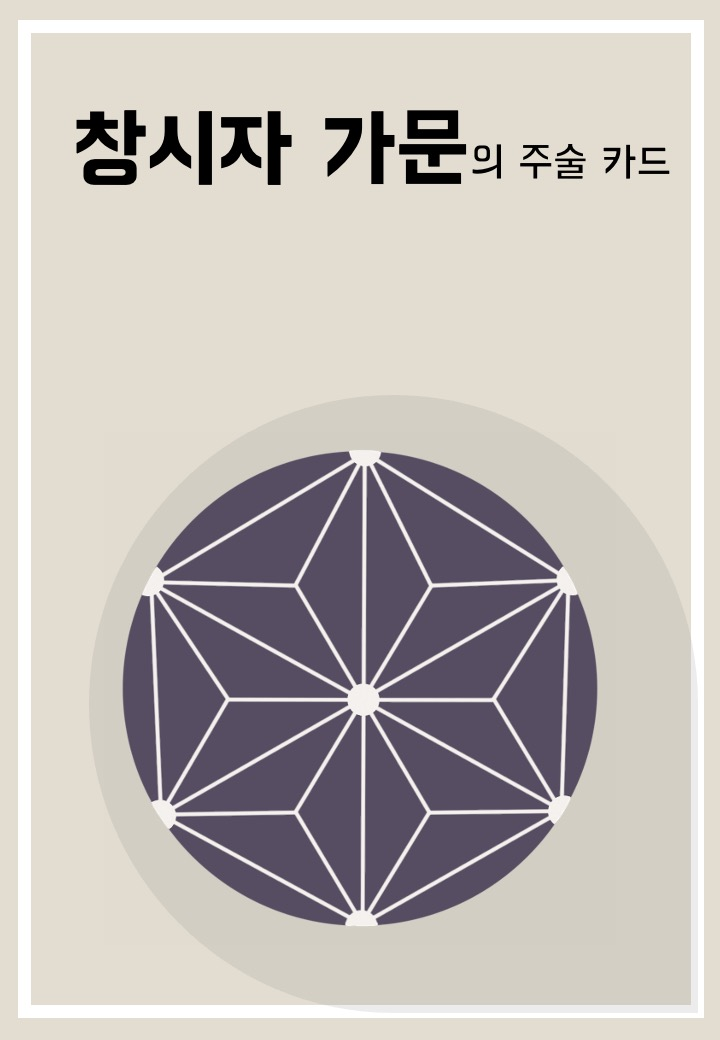
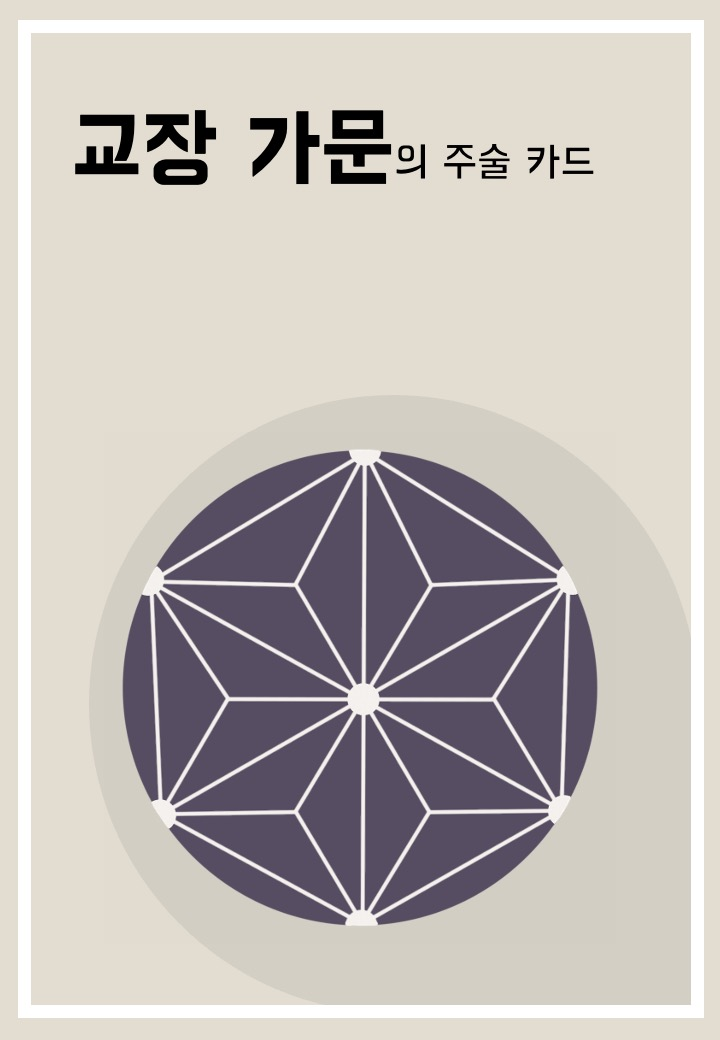
주술 조건 추가

diff --git a/character/character7.html b/character/character7.html
@@ -142,7 +142,7 @@
             <p>「최초의 주술사가 탄생하였다.<br>그는 주술사가 되려면 요괴를...」</p>
             </blockquote>
             <p>나머지 글귀는 찢어져 알아볼 수 없었다.</p>
-            <p>책의 다른 부분에는 가문의 주술인 <strong>생명술</strong>(나의 생명력과 타인의 생명력을 바꾸는 주술)을 포함한 <STRONG>그림자술</STRONG>(눈에 보이는 것을 그림자 속에 없애는 주술)과 <STRONG>복원술</STRONG>(사물을 기존의 상태로 복원하는 주술)에 대해 적혀 있었다.</p>
+            <p>책의 다른 부분에는 가문의 주술인 <strong>생명술</strong>(나의 생명력과 타인의 생명력을 바꾸는 주술)을 포함한 <STRONG>그림자술</STRONG>(눈에 보이는 것을 그림자 속에 숨기는 주술)과 <STRONG>복원술</STRONG>(사물을 기존의 상태로 복원하는 주술)에 대해 적혀 있었다.</p>
             <p>한참 책장을 넘기던 중, 누군가 나를 불렀다.</p>
             <p>"그림자 가문의 아이야. 돌아왔구나."</p>
             <p>고개를 들자 한 여인이 서 있었다.<br>그녀는 <strong>주술 학교의 교장, 아리아</strong>라고 했다.</p>

diff --git a/characterAction/character6.html b/characterAction/character6.html
@@ -65,7 +65,9 @@
         <p><strong>주술</strong> : 변신술</p>
         <p><strong>내용</strong> : 신체의 모습을 변형하는 주술</p>
         <p><strong>비용</strong> : 주술 1번당 체력 큐브 2개 소모</p>
-        <p>[참고] 주술을 원하는 만큼 사용할 수 있습니다.</p>
+        <p><strong>조건</strong> : 아리아의 비밀 상자 발견 시 행동 가능</p>
+        <p>[참고] 원한다면 3번까지 사용 가능합니다.</p>
+        <p>[주의] 아리아의 비밀 상자를 발견하지 못했다면 행동을 넘어갑니다.</p>
     </section>
 
     <!-- 🟢 구분선 -->

diff --git a/characterAction/character1.html b/characterAction/character1.html
@@ -65,7 +65,7 @@
         <p><strong>주술</strong> : 해독술</p>
         <p><strong>내용</strong> : 기록술로 숨긴 기록을 밝혀내는 주술</p>
         <p><strong>비용</strong> : 주술 1번당 체력 큐브 2개 소모</p>
-        <p>[참고] 주술은 원하는 만큼 사용할 수 있습니다.<br>소지하거나 양도받은 카드에 한해서만 사용 가능합니다.</p>
+        <p>[참고] 원한다면 3번까지 사용 가능합니다.<br>소지하거나 양도받은 카드에 한해서만 사용 가능합니다.</p>
     </section>
 
     <!-- 🟢 구분선 -->

diff --git a/characterAction/character2.html b/characterAction/character2.html
@@ -64,9 +64,9 @@
         <br>
         <p><strong>순서</strong> : 4번</p>
         <p><strong>주술</strong> : 괴력술</p>
-        <p><strong>내용</strong> : 강력한 괴력을 내는 마족 고유의 힘</p>
+        <p><strong>내용</strong> : 강력한 괴력을 내는 가문 고유의 힘</p>
         <p><strong>비용</strong> : 힘 1번당 체력 큐브 1개 소모</p>
-        <p>[참고] 원하는 만큼 사용 가능합니다.</p>
+        <p>[참고] 원한다면 3번까지 사용 가능합니다.</p>
     </section>
 
     <!-- 🟢 구분선 -->

diff --git a/characterAction/character7.html b/characterAction/character7.html
@@ -65,7 +65,7 @@
             <p><strong>주술</strong> : 복원술</p>
             <p><strong>내용</strong> : 사물을 기존의 상태로 복원하는 주술</p>
             <p><strong>비용</strong> : 주술 1번당 체력 큐브 1개 소모</p>
-            <p>[참고] 주술을 원하는 만큼 사용할 수 있습니다.</p>
+            <p>[참고] 원한다면 3번까지 사용 가능합니다.</p>
         </section>
     
         <!-- 🟢 구분선 -->

diff --git a/mid-action-page.html b/mid-action-page.html
@@ -56,7 +56,7 @@
 
         <div class="character">
             <img src="assets/images/벼리 가문.jpg" alt="벼리">
-            <p>벼리(창시자 가문)</p>
+            <p>벼리(교장 가문)</p>
             <button onclick="confirmCharacter('벼리', 'character6.html')">벼리 중간 행동</button>
         </div>
 
